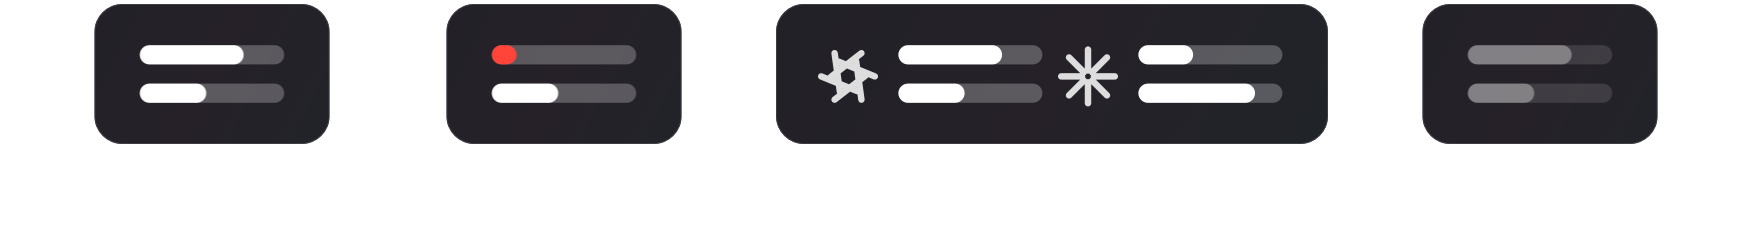
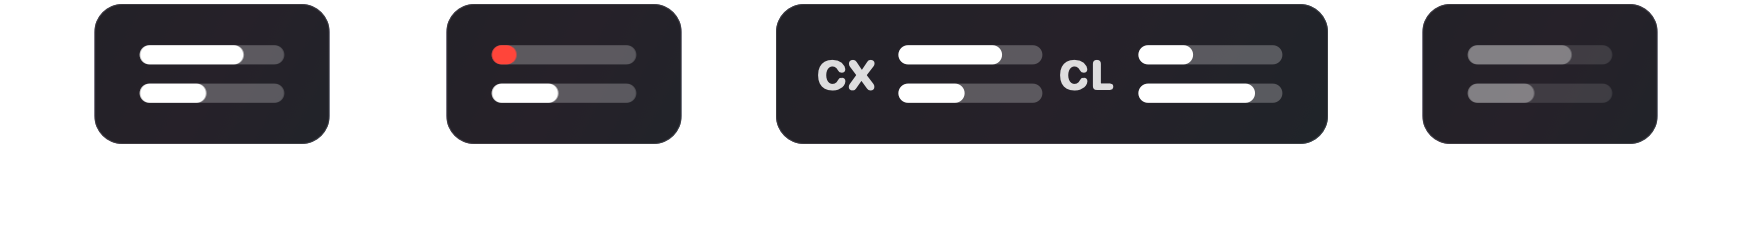
Replace menu bar provider marks with CX and CL labels
The dual-provider marks resembled the Claude and OpenAI logos. Anthropic
declined permission to use the Claude mark, so both providers now use
neutral text labels. The README states that Limitwick is independent.

Changed region(s): [[0.5856, 0.2076, 0.6473, 0.4449], [0.4623, 0.2076, 0.524, 0.4449]]

diff --git a/Sources/InterfaceViews.swift b/Sources/InterfaceViews.swift
@@ -210,26 +210,16 @@ final class UpdateBadge: NSView {
     }
 }
 
-// Compact marks distinguish providers without changing the existing quota bars.
+// Compact text labels distinguish providers without changing the existing quota bars.
+// Provider logos are not used: Anthropic declined permission for the Claude mark.
 func drawProviderMark(_ provider: String, in rect: NSRect, color: NSColor) {
-    NSGraphicsContext.saveGraphicsState()
-    color.setStroke()
-    let center = NSPoint(x: rect.midX, y: rect.midY), radius = min(rect.width, rect.height) * 0.43
-    let path = NSBezierPath(); path.lineWidth = max(1, radius * 0.24); path.lineCapStyle = .round
-    if provider == "Claude" {
-        for i in 0..<8 {
-            let angle = CGFloat(i) * .pi / 4
-            path.move(to: NSPoint(x: center.x + cos(angle) * radius * 0.22, y: center.y + sin(angle) * radius * 0.22))
-            path.line(to: NSPoint(x: center.x + cos(angle) * radius, y: center.y + sin(angle) * radius))
-        }
-    } else {
-        for i in 0..<6 {
-            let a = CGFloat(i) * .pi / 3, b = a + .pi * 0.68
-            path.move(to: NSPoint(x: center.x + cos(a) * radius, y: center.y + sin(a) * radius))
-            path.line(to: NSPoint(x: center.x + cos(b) * radius * 0.65, y: center.y + sin(b) * radius * 0.65))
-        }
-    }
-    path.stroke(); NSGraphicsContext.restoreGraphicsState()
+    let size = min(rect.width, rect.height) * 0.66
+    let heavy = NSFont.systemFont(ofSize: size, weight: .heavy)
+    let font = heavy.fontDescriptor.withDesign(.rounded).flatMap { NSFont(descriptor: $0, size: size) } ?? heavy
+    let label = NSAttributedString(string: provider == "Claude" ? "CL" : "CX",
+                                   attributes: [.font: font, .foregroundColor: color, .kern: -0.2])
+    let box = label.size()
+    label.draw(at: NSPoint(x: rect.midX - box.width / 2, y: rect.midY - box.height / 2 + size * 0.035))
 }
 
 final class ProviderMark: NSView {

diff --git a/README.md b/README.md
@@ -329,3 +329,5 @@ The default build is `build/Limitwick-Development.app`. It uses its own identifi
 ## License
 
 [MIT License](LICENSE) · [Español](docs/LICENSE.es-419.md) · [Русский](docs/LICENSE.ru.md)
+
+Limitwick is an independent project. It is not affiliated with, sponsored by, or endorsed by Anthropic or OpenAI. Claude, Codex and other product names belong to their respective owners.
